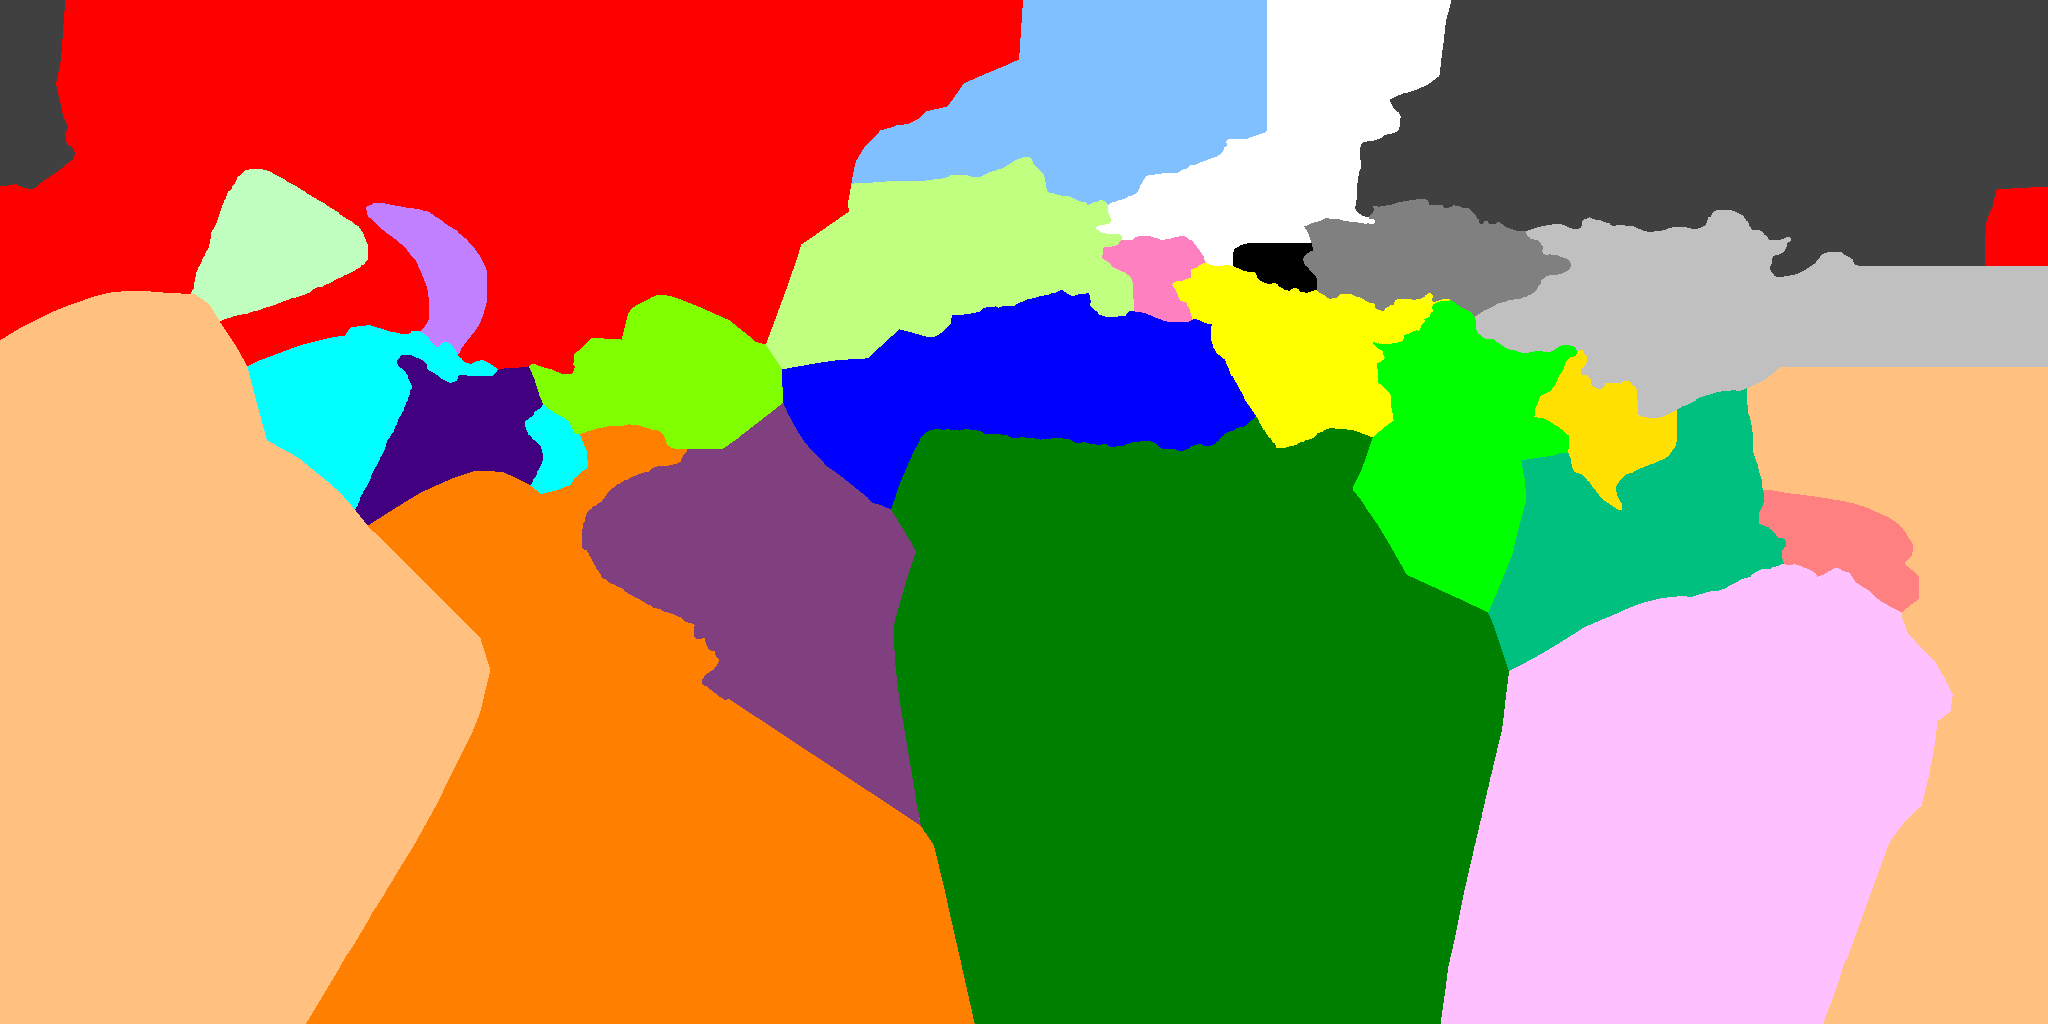
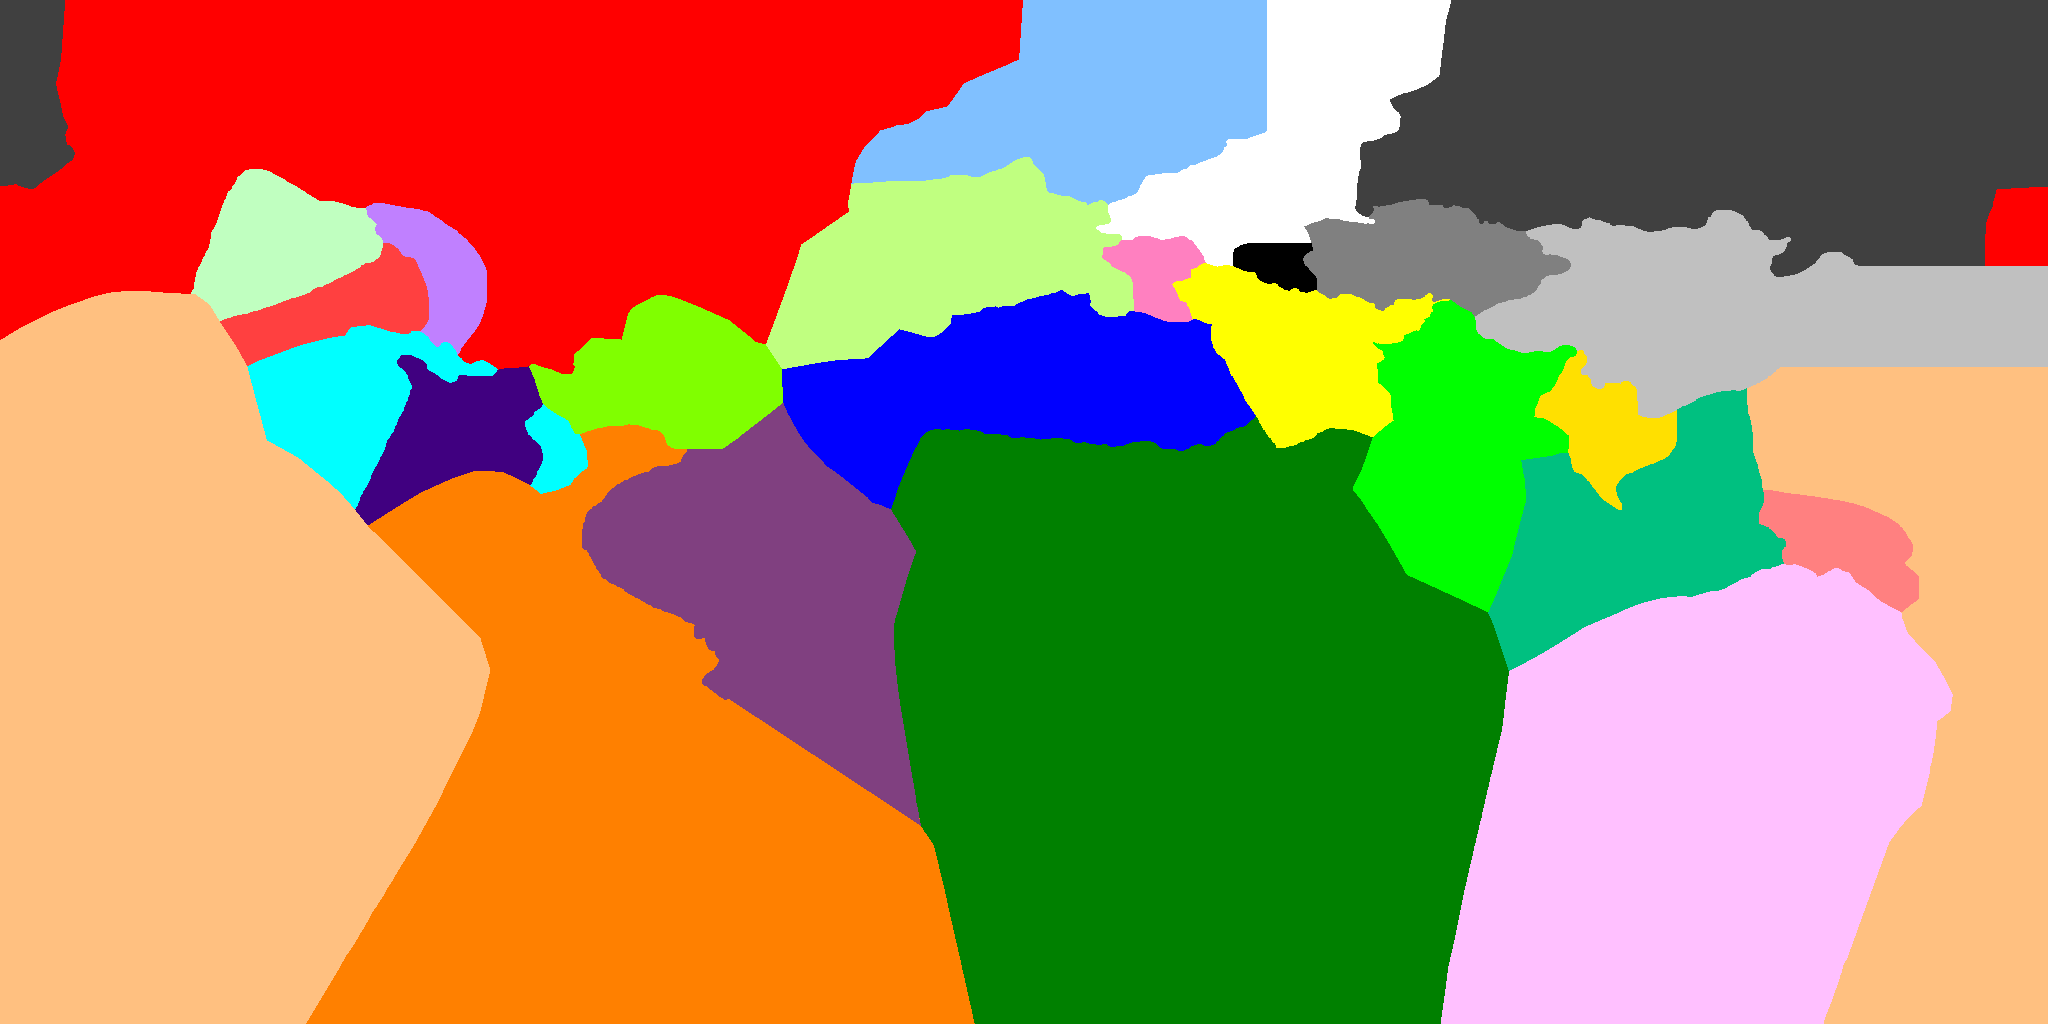
southwest

Changed region(s): [[0.0938, 0.1875, 0.2188, 0.3438]]

diff --git a/Geo.cs b/Geo.cs
@@ -28,6 +28,7 @@ namespace WalsParser {
 		AUSTRALIA = 0xFFFFC0FF,
 		MESOAMERICA = 0xFF400080,
 		AMAZON = 0xFF804080,
+		AMERICA_SOUTHWEST = 0xFF804080,
 	}
 	class Region {
 		public static readonly List<Region> regions = new();
@@ -49,7 +50,7 @@ namespace WalsParser {
 		});
 		static readonly Region AMERICA_NORTH = new("AMERICA_NORTH", new Province[]{
 			Province.AMERICA_NORTH_NORTH, Province.CASCADIA, Province.CARRIBEAN, Province.AMERICA_CENTRAL_PERIPHERAL,
-			Province.PLAINS, Province.MESOAMERICA
+			Province.PLAINS, Province.MESOAMERICA, Province.AMERICA_SOUTHWEST
 		});
 		static readonly Region AMERICA_CENTRAL = new("AMERICA_CENTRAL", new Province[]{
 			Province.AMERICA_CENTRAL_PERIPHERAL, Province.MESOAMERICA
